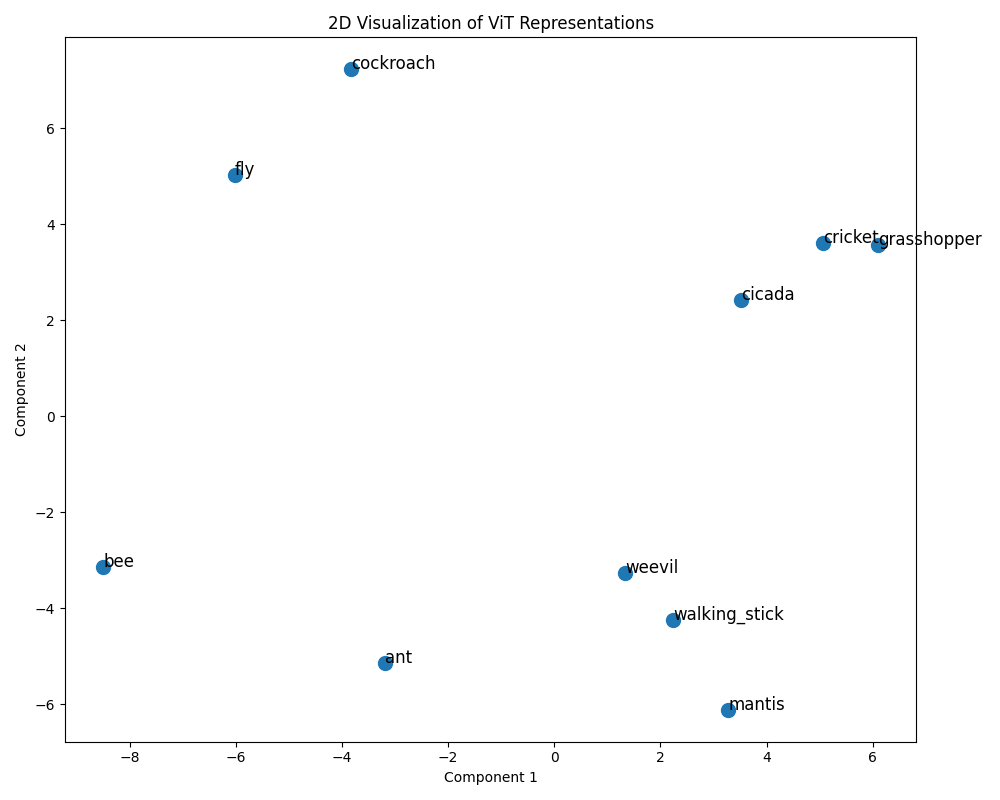
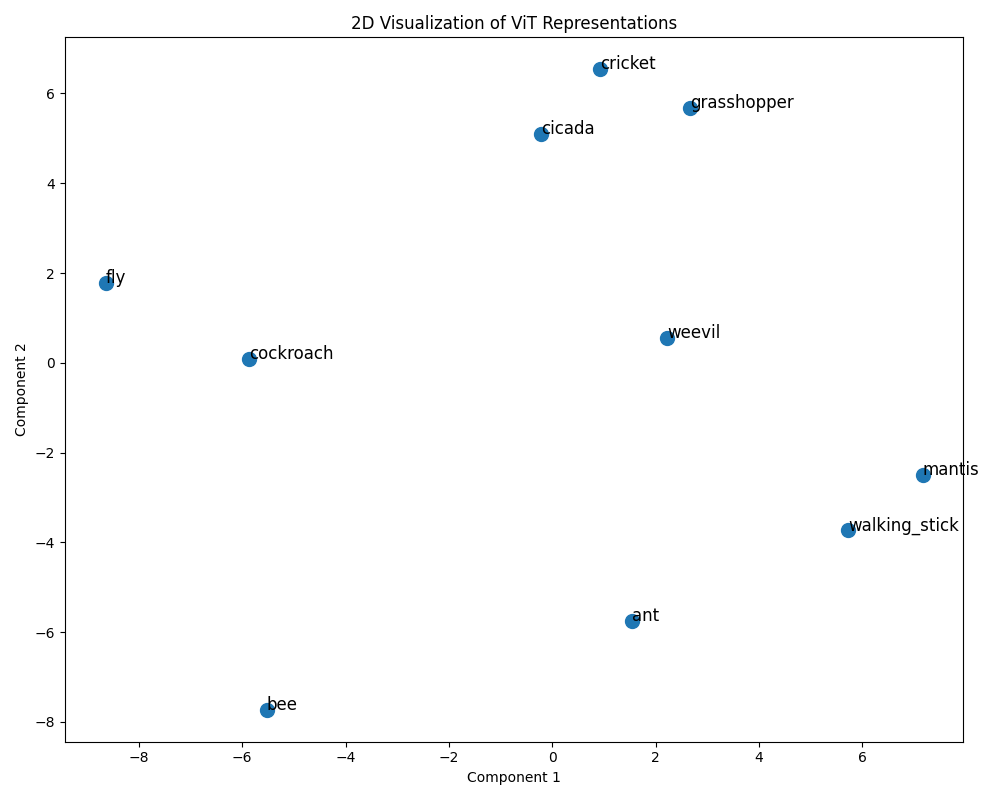
The Final Push, Have a Great Summer Professor

diff --git a/Scripts/Model_Distillation/Image_Representations.py b/Scripts/Model_Distillation/Image_Representations.py
@@ -92,10 +92,48 @@ plt.tight_layout()
 plt.savefig("representation_plot.png")
 plt.show()
 
+#now repeat the above but with the distilled model
 
-plt.plot([0,1,2,3], [10,20,10,5])
-plt.title("Test Plot")
-plt.xlabel("X")
-plt.ylabel("Y")
-plt.savefig("test_plot.png")
+# Load model and feature extractor
+feature_extractor = ViTFeatureExtractor.from_pretrained(MODEL_NAME)
+model = ViTModel.from_pretrained(REAL_MODEL_PATH).to(DEVICE)
+model.eval()
+
+# Load images and extract representations
+embeddings = []
+labels = []
+for filename in paths:
+    if filename.lower().endswith((".png", ".jpg", ".jpeg")):
+        img = Image.open(filename).convert("RGB")
+        inputs = feature_extractor(images=img, return_tensors="pt").to(DEVICE)
+        with torch.no_grad():
+            outputs = model(**inputs)
+            # Use the [CLS] token representation
+            cls_embedding = outputs.pooler_output.squeeze().cpu().numpy()
+            embeddings.append(cls_embedding)  # Or derive a label/category from filename
+embeddings = np.vstack(embeddings)
+# Dimensionality reduction (choose one)
+# PCA to 2D
+pca = PCA(n_components=2)
+embeddings_2d = pca.fit_transform(embeddings)
+# Alternatively, use t-SNE
+# tsne = TSNE(n_components=2, perplexity=30, n_iter=1000)
+# embeddings_2d = tsne.fit_transform(embeddings)
+# Plot
+plt.figure(figsize=(10, 8))
+# Color by derived label/category; here we just use indices
+scatter = plt.scatter(embeddings_2d[:, 0], embeddings_2d[:, 1], cmap='tab10', s=100)
+for name in paths_dict.keys():
+    txt = name
+    #now plot the name of the image
+    plt.annotate(txt, (embeddings_2d[paths.index(paths_dict[name]), 0], embeddings_2d[paths.index(paths_dict[name]), 1]), fontsize=12, )
+plt.title("2D Visualization of Distilled ViT Representations")
+plt.xlabel("Component 1")
+plt.ylabel("Component 2")
+plt.tight_layout()
+plt.savefig("distilled_representation_plot.png")
 plt.show()
+
+
+#now repeat the above but with the distilled model
+
